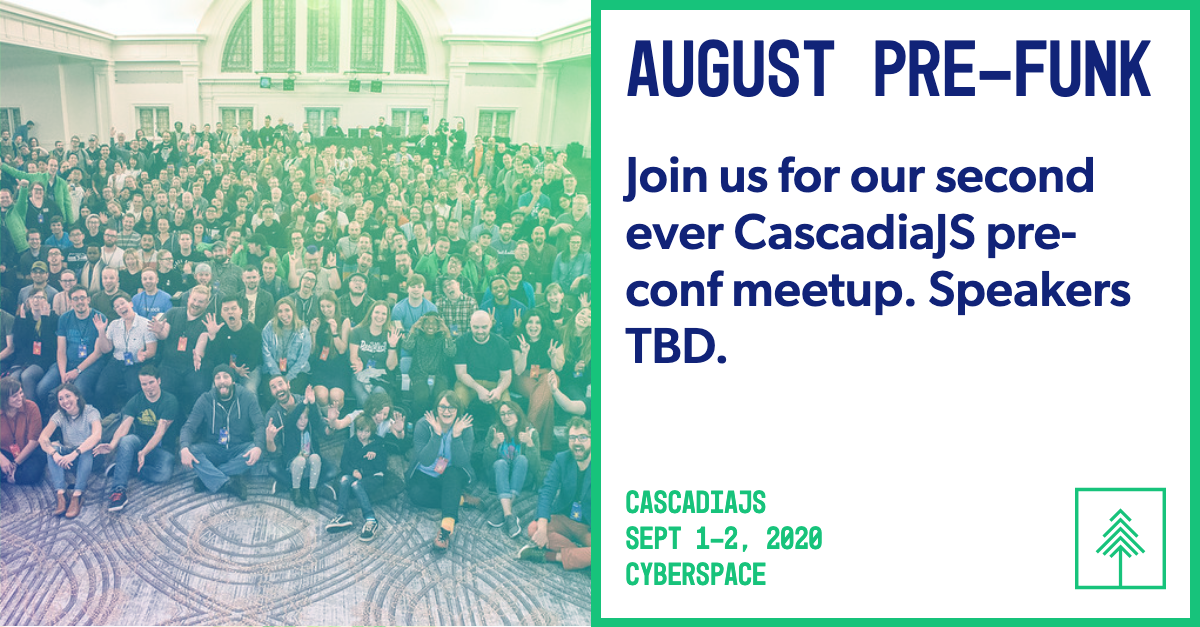
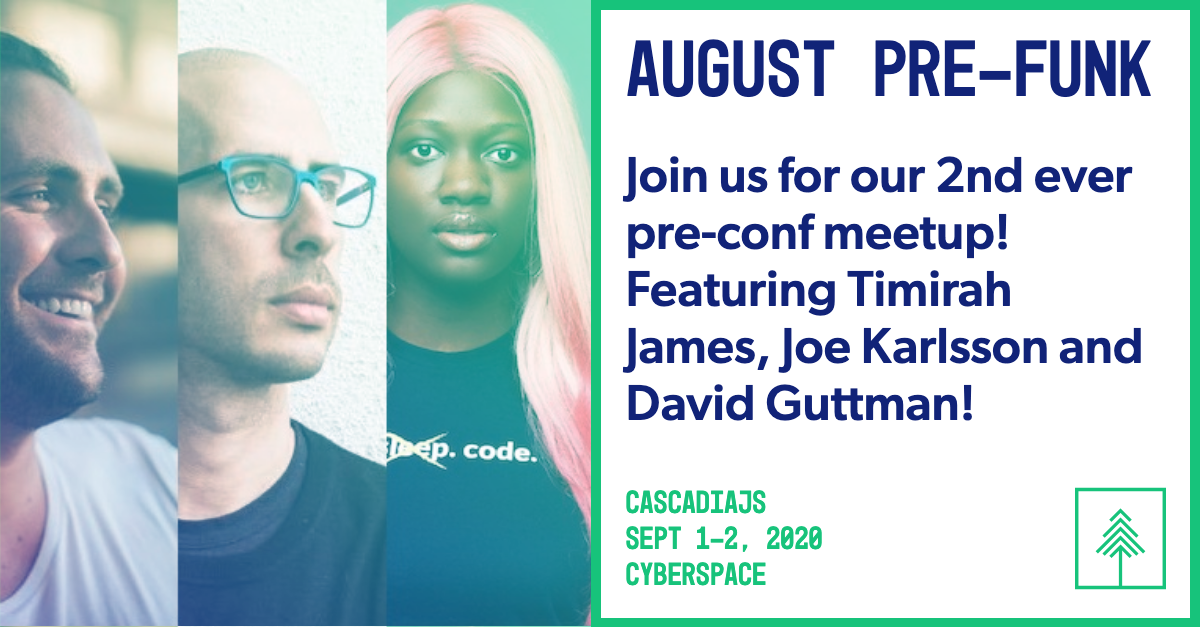
social sharing image + karaoke

diff --git a/src/views/pages/content/august-prefunk.md b/src/views/pages/content/august-prefunk.md
@@ -1,6 +1,7 @@
 ---
 title: August Pre-Funk
-excerpt: Join us for our second ever CascadiaJS pre-conf meetup! Featuring Timirah James, Joe Karlsson and David Guttman!
+excerpt: Join us for our 2nd ever pre-conf meetup! Featuring Timirah James, Joe Karlsson and David Guttman!
+image: /images/aug-prefunk.jpg
 ---
 
 Join us for a CascadiaJS pre-conference meetup, **the last one before our main event** ! Hangout with fellow conference attendees and enjoy two awesome Lightning Talks by our friends [Timirah James](https://twitter.com/TimirahJ), [Joe Karlsson](https://twitter.com/JoeKarlsson1) and [David Guttman](https://twitter.com/davidguttman). Like CascadiaJS 2020, this event will take place in... Cyberspace!
@@ -20,7 +21,7 @@ Join us for a CascadiaJS pre-conference meetup, **the last one before our main e
 * 18:00 - Q&A
 * 18:15 - David Guttman: js.la to js.online: Meetups & MMORPGs
 * 18:30 - Q&A
-* 18:45 - Socialize & Network
+* 18:45 - Socialize & Karaoke!
 * 19:30 - End
 
 <div class="cta"><a href="https://ti.to/event-loop/cjs20-august-prefunk">RSVP to Meetup</a></div>
@@ -94,6 +95,12 @@ A few tips on getting the most out of the event:
 Rambly is an 8-bit universe where you pick an avatar and walk around having audio-only conversations. 
 
 ![Rambly](/images/rambly.png)
+
+#### Karaoke
+
+![voicebox logo](/images/voicebox-logo.svg)
+
+More info on how to participate in Karaoke by Voicebox will be emailed to you.
 
 #### Links
 
